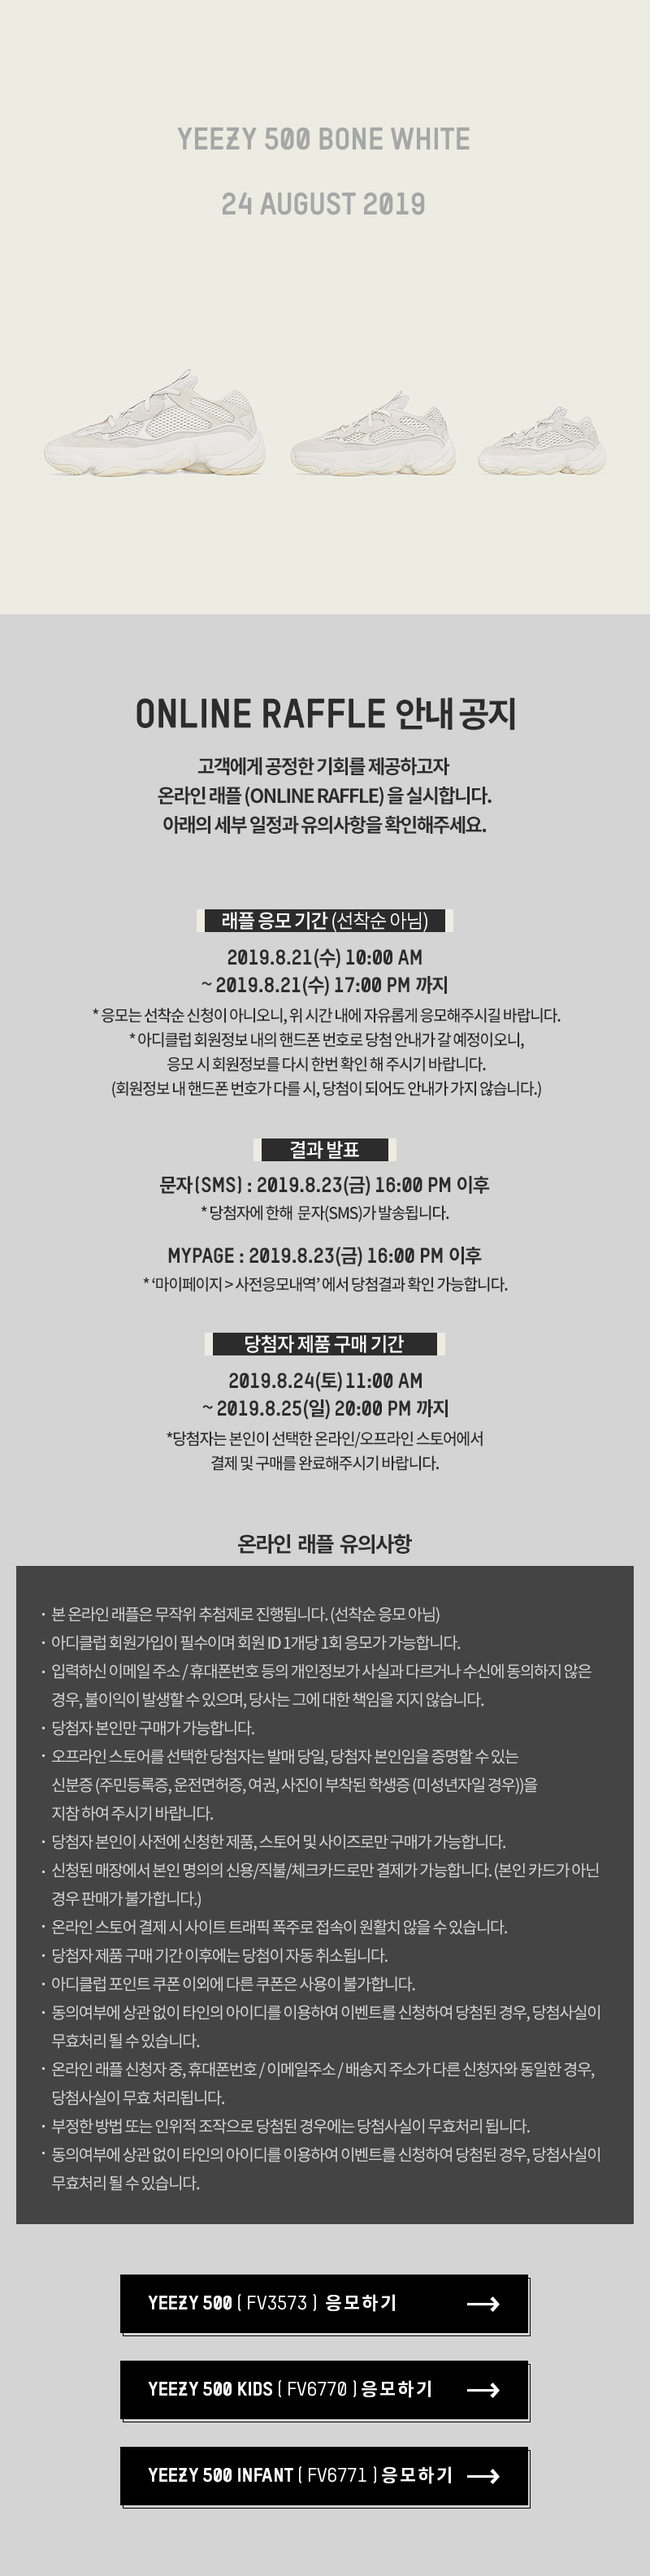
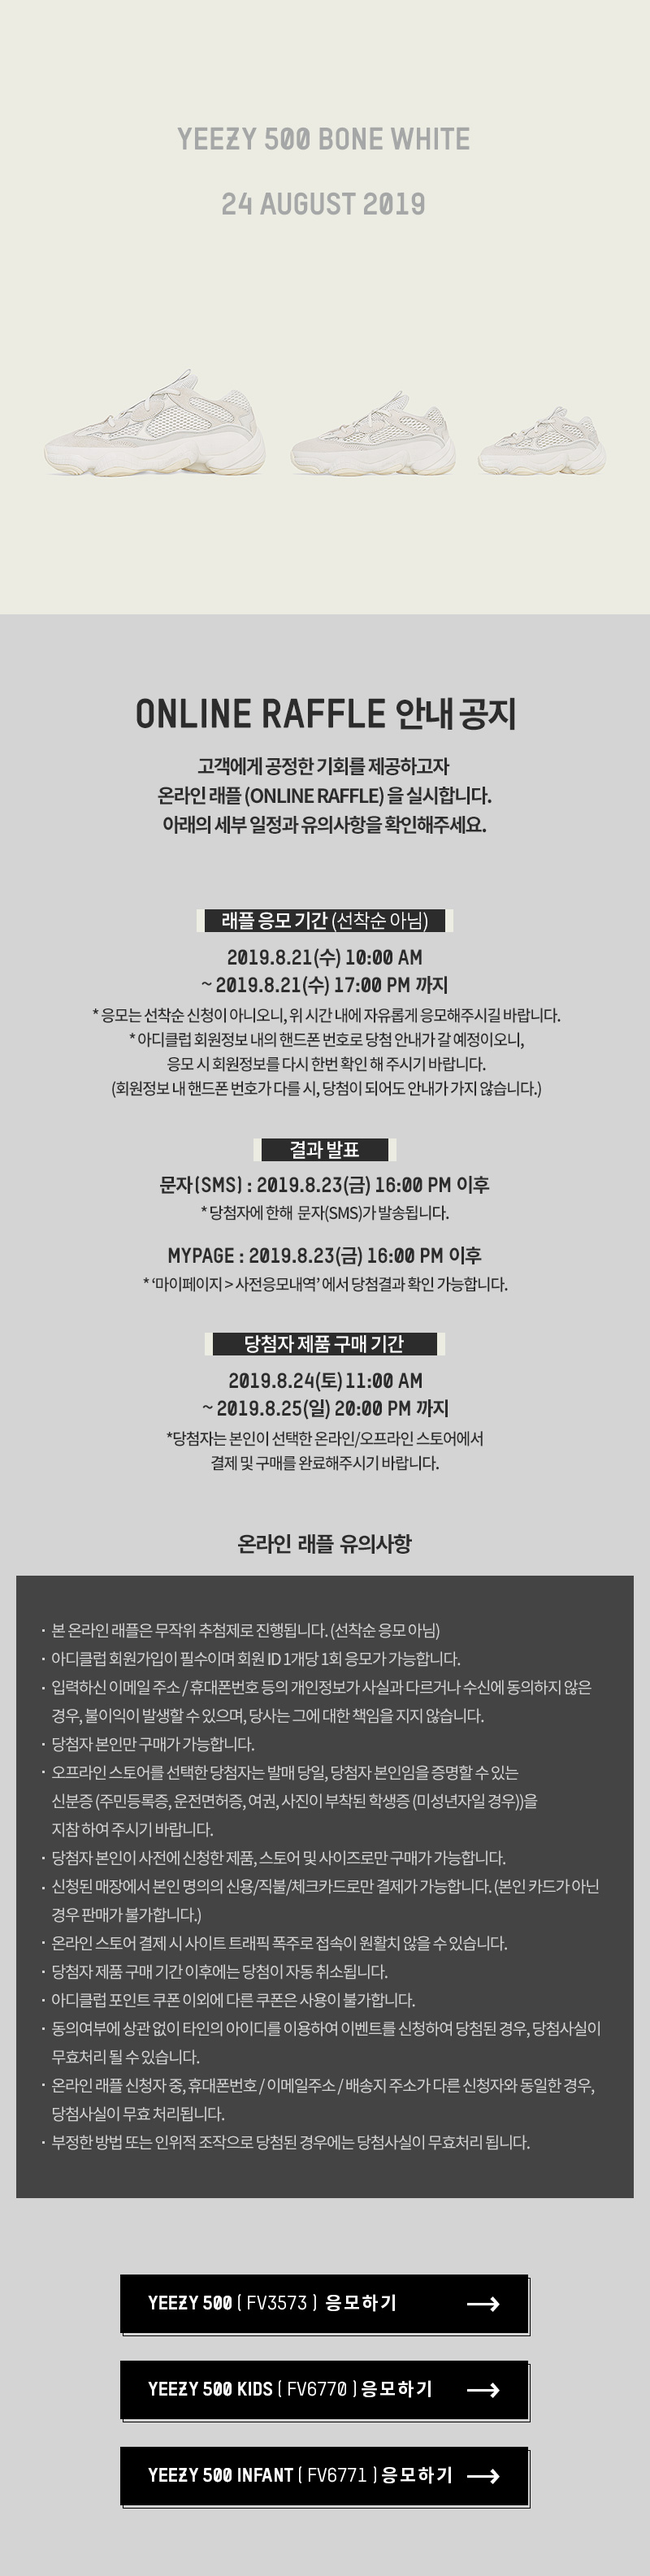
adi_FRT_이지

Changed region(s): [[0.0312, 0.5934, 0.9688, 0.8744]]

diff --git a/mobile/html/adidas/event/yeezy/190819/event_enter_vertical-2.html b/mobile/html/adidas/event/yeezy/190819/event_enter_vertical-2.html
@@ -844,7 +844,6 @@
 									<li>동의여부에 상관 없이 타인의 아이디를 이용하여 이벤트를 신청하여 당첨된 경우, 당첨사실이 무효처리 될 수 있습니다.</li>
 									<li>온라인 래플 신청자 중, 휴대폰번호 / 이메일주소 / 배송지 주소가 다른 신청자와 동일한 경우, 당첨사실이 무효 처리됩니다.</li>
 									<li>부정한 방법 또는 인위적 조작으로 당첨된 경우에는 당첨사실이 무효처리 됩니다.</li>
-									<li>동의여부에 상관 없이 타인의 아이디를 이용하여 이벤트를 신청하여 당첨된 경우, 당첨사실이 무효처리 될 수 있습니다.</li>
 								</ul>
 							</dd>
 						</dl>

diff --git a/mobile/html/adidas/event/yeezy/190819/event_enter_vertical-3.html b/mobile/html/adidas/event/yeezy/190819/event_enter_vertical-3.html
@@ -844,7 +844,6 @@
 									<li>동의여부에 상관 없이 타인의 아이디를 이용하여 이벤트를 신청하여 당첨된 경우, 당첨사실이 무효처리 될 수 있습니다.</li>
 									<li>온라인 래플 신청자 중, 휴대폰번호 / 이메일주소 / 배송지 주소가 다른 신청자와 동일한 경우, 당첨사실이 무효 처리됩니다.</li>
 									<li>부정한 방법 또는 인위적 조작으로 당첨된 경우에는 당첨사실이 무효처리 됩니다.</li>
-									<li>동의여부에 상관 없이 타인의 아이디를 이용하여 이벤트를 신청하여 당첨된 경우, 당첨사실이 무효처리 될 수 있습니다.</li>
 								</ul>
 							</dd>
 						</dl>

diff --git a/mobile/html/adidas/event/yeezy/190819/event_enter_vertical.html b/mobile/html/adidas/event/yeezy/190819/event_enter_vertical.html
@@ -844,7 +844,6 @@
 									<li>동의여부에 상관 없이 타인의 아이디를 이용하여 이벤트를 신청하여 당첨된 경우, 당첨사실이 무효처리 될 수 있습니다.</li>
 									<li>온라인 래플 신청자 중, 휴대폰번호 / 이메일주소 / 배송지 주소가 다른 신청자와 동일한 경우, 당첨사실이 무효 처리됩니다.</li>
 									<li>부정한 방법 또는 인위적 조작으로 당첨된 경우에는 당첨사실이 무효처리 됩니다.</li>
-									<li>동의여부에 상관 없이 타인의 아이디를 이용하여 이벤트를 신청하여 당첨된 경우, 당첨사실이 무효처리 될 수 있습니다.</li>
 								</ul>
 							</dd>
 						</dl>
